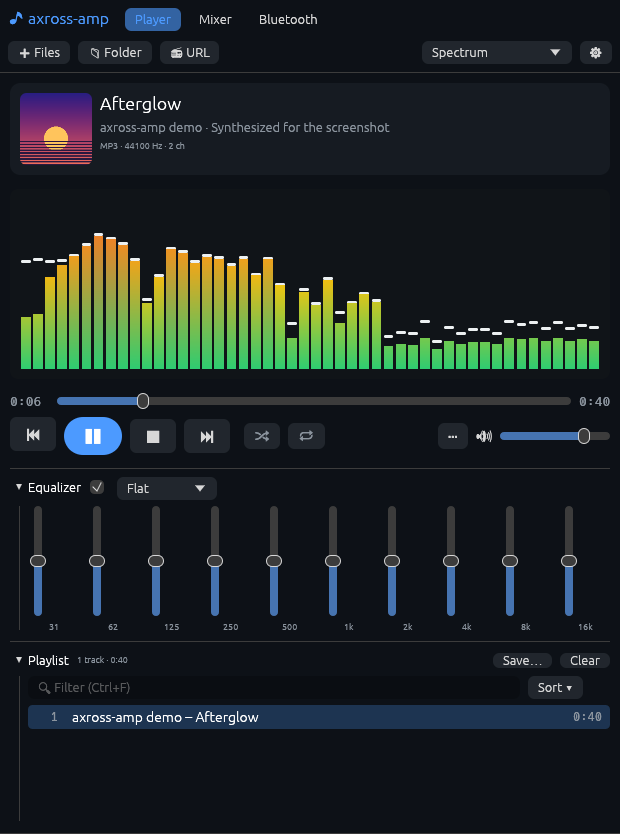
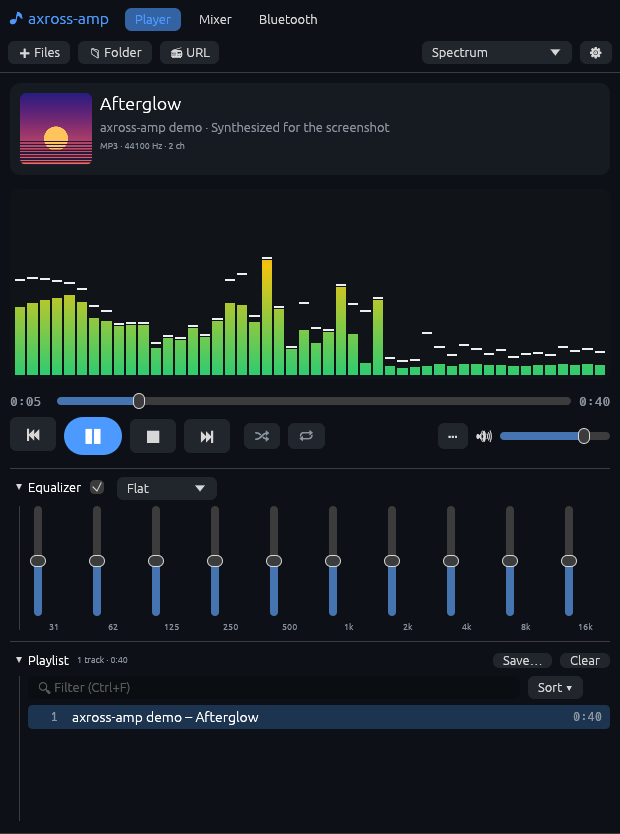
0.6.0: 48 faces in the README, from real playback; side by side with axross
The README describes the three groups, the analysis, the shaders and
their CPU fallback; its pictures are the demo track played in real time
(docs/faces-*.png, made by the ignored ui test and docs/faces_sheet.py)
and axross's faces beside axross-amp's from the same signal
(docs/axross-and-amp.png). The faces are clipped to their picture; the
title's words grow in instead of shrinking from too large; the
reaction-diffusion's seeds are round; the beat rings show the tempo.
Shift+V and Ctrl+Z in --help. An ignored test measures the shader faces
under wgpu.

Changed region(s): [[0.0, 0.2806, 0.9806, 0.4988]]

diff --git a/src/viz/generative.rs b/src/viz/generative.rs
@@ -148,7 +148,19 @@ pub fn draw(f: &Frame<'_>, key: &str, state: &mut VizState) {
         "spirograph" => cv.draw(p, |pen| spirograph(f, pen, st, dt)),
         "morph" => cv.draw(p, |pen| morph(f, pen, st, dt)),
         "mandala" => cv.draw(p, |pen| mandala(f, pen)),
-        "beatrings" => cv.draw(p, |pen| beatrings(f, pen, st, dt)),
+        "beatrings" => {
+            cv.draw(p, |pen| beatrings(f, pen, st, dt));
+            // the tempo the rings keep
+            if f.a.beat.bpm > 0.0 && f.a.beat.confidence > 0.25 {
+                p.text(
+                    f.rect.left_bottom() + vec2(4.0, -4.0),
+                    egui::Align2::LEFT_BOTTOM,
+                    format!("{:.0} BPM", f.a.beat.bpm),
+                    FontId::monospace(12.0),
+                    f.s.text(),
+                );
+            }
+        }
         _ => cv.draw(p, |pen| typography(f, pen, st, dt)),
     }
 }
@@ -307,6 +319,11 @@ fn reaction(a: &Analyzer, st: &mut State, dt: f32, picture: &std::sync::Mutex<gp
 fn seed(st: &mut State, x: usize, y: usize, r: usize) {
     for dy in 0..=2 * r {
         for dx in 0..=2 * r {
+            // (a round seed: a square one stays a square for a while)
+            let (ox, oy) = (dx as i32 - r as i32, dy as i32 - r as i32);
+            if ox * ox + oy * oy > (r * r) as i32 {
+                continue;
+            }
             let (xx, yy) = ((x + dx + RD_W - r) % RD_W, (y + dy + RD_H - r) % RD_H);
             st.rd_v[yy * RD_W + xx] = 0.9;
             st.rd_u[yy * RD_W + xx] = 0.3;
@@ -1195,9 +1212,8 @@ fn typography(f: &Frame<'_>, pen: &mut Pen<'_>, st: &mut State, dt: f32) {
     // the word: it comes in large, settles, swells with the beat; its
     // letters shake with the treble
     let arrive = (st.word_age / 0.22).min(1.0);
-    let scale = fit
-        * (1.0 + 0.6 * (1.0 - arrive) * (1.0 - arrive))
-        * (1.0 + 0.12 * a.beat.pulse + 0.06 * a.bass);
+    let scale =
+        fit * (0.7 + 0.3 * arrive * (2.0 - arrive)) * (1.0 + 0.12 * a.beat.pulse + 0.06 * a.bass);
     let tilt = (t * 0.7).sin() * 0.04 + (1.0 - arrive) * 0.15;
     let colour = mix(s.mid, s.peak, a.beat.pulse * 0.8);
     put_text(

diff --git a/tests/ui.rs b/tests/ui.rs
@@ -188,4 +188,48 @@ fn the_readme_picture() {
     // (without the status line: the test's own output has no device name)
     let image = image::imageops::crop_imm(&image, 0, 0, 620, 834).to_image();
     image.save(shots().join("hero.png")).unwrap();
+    // every face from the same music, for the README's gallery
+    let gallery = shots().join("gallery");
+    std::fs::create_dir_all(&gallery).unwrap();
+    for (k, key) in FACES
+        .iter()
+        .filter(|f| f.group != Group::Off)
+        .map(|f| f.key)
+        .enumerate()
+    {
+        // (the music goes on where it is lively: the demo is a minute long)
+        if k % 12 == 0 {
+            harness
+                .state()
+                .engine()
+                .send(axross_amp::engine::Command::Seek(14.0));
+        }
+        harness.state_mut().set_mode(key);
+        let end = std::time::Instant::now() + std::time::Duration::from_millis(1800);
+        while std::time::Instant::now() < end {
+            harness
+                .state()
+                .engine()
+                .shared
+                .render(&mut buf, 2, &mut state);
+            harness.run_steps(1);
+            std::thread::sleep(std::time::Duration::from_millis(10));
+        }
+        let image = harness.render().unwrap();
+        let r = harness
+            .get_by_role_and_label(
+                egui::accesskit::Role::Image,
+                &format!("Visualization: {}", axross_amp::viz::name(key)),
+            )
+            .rect();
+        let picture = image::imageops::crop_imm(
+            &image,
+            r.left() as u32,
+            r.top() as u32,
+            r.width() as u32,
+            r.height() as u32,
+        )
+        .to_image();
+        picture.save(gallery.join(format!("{key}.png"))).unwrap();
+    }
 }

diff --git a/tests/faces.rs b/tests/faces.rs
@@ -181,3 +181,29 @@ fn the_shader_faces_look_alike_on_the_cpu() {
     }
     println!("{}", report.join("\n"));
 }
+
+/// What the GPU's work costs, rendered by wgpu (where there is no GPU: Mesa's
+/// lavapipe on the CPU, far slower than any graphics card) - for a measure,
+/// not a limit: `cargo test --test faces -- --ignored`.
+#[test]
+#[ignore]
+fn what_the_shader_faces_cost_the_gpu() {
+    for (w, h) in [(620.0, 300.0), (1920.0, 1080.0), (3840.0, 2160.0)] {
+        let mut line = format!("{w}x{h}:");
+        for face in FACES.iter().filter(|f| f.shader) {
+            let mut harness = faces::harness(face.key, vec2(w, h), true, 3.0);
+            for _ in 0..10 {
+                faces::frame(&mut harness);
+            }
+            harness.render().unwrap();
+            let started = std::time::Instant::now();
+            for _ in 0..3 {
+                faces::frame(&mut harness);
+                harness.render().unwrap();
+            }
+            let ms = started.elapsed().as_secs_f64() * 1000.0 / 3.0;
+            line.push_str(&format!(" {} {ms:.0} ms,", face.key));
+        }
+        println!("{line}");
+    }
+}

diff --git a/src/viz/mod.rs b/src/viz/mod.rs
@@ -673,9 +673,16 @@ pub fn draw(f: &Frame<'_>, key: &str, state: &mut VizState) {
     if f.rect.width() < 8.0 || f.rect.height() < 8.0 {
         return;
     }
-    // (a little room within the rounded corners)
+    // (a little room within the rounded corners; nothing drawn outside)
     let inner = f.rect.shrink(4.0);
-    let frame = Frame { rect: inner, ..*f };
+    let clipped = f
+        .painter
+        .with_clip_rect(f.rect.intersect(f.painter.clip_rect()));
+    let frame = Frame {
+        rect: inner,
+        painter: &clipped,
+        ..*f
+    };
     let face = find(key).unwrap_or(&FACES[0]);
     match face.group {
         Group::Classic => classic::draw(&frame, face.key, state),

diff --git a/src/main.rs b/src/main.rs
@@ -21,8 +21,9 @@ A player already running (Linux) takes the files of a second start;
 
 Keys: Space play / pause, Left / Right seek 5 s (Shift: 30 s), Ctrl+Left /
 Right previous / next, Up / Down or + / - volume, Home the track's start,
-M mute, N next, P previous, V next visualization; in the playlist Ctrl+Up /
-Down choose a track, Alt+Up / Down move it, Enter play it, Delete remove it.
+M mute, N next, P previous, V / Shift+V the next / previous visualization;
+in the playlist Ctrl+Up / Down choose a track, Alt+Up / Down move it, Enter
+play it, Delete remove it, Ctrl+Z undo.
 The mouse wheel seeks over the position and sets the volume over its slider.";
 
 fn main() -> eframe::Result {

diff --git a/README.md b/README.md
@@ -35,14 +35,36 @@ picture is made by `AMP_DEMO_TRACK=… cargo test --test ui -- --ignored`.</sub>
   (`ICY 200 OK`) play. The network is read on threads of its own: a server that
   stalls holds up nothing (a read gives up after 20 s; a stream let go closes its
   connection at once). HLS (`.m3u8` with segments) is not supported and says so.
-- **Visualizations** drawn on the GPU (egui) - all eighteen of axross's: spectrum,
-  mirrored, radial and polar spectrum, line spectrum, LED equalizer, particle
-  columns, waterfall, ridgelines, spectrum terrain, 3D ring, bell curves, wave
-  ribbon, kaleidoscope, oscilloscope, stereo scope, VU meters, starfield - in
-  axross's colour schemes (Classic, Fire, Ice, Neon, Mono, Follow the theme,
-  Custom - edited here), with its options (bars, smoothing, peak fall, frame
-  rate). A click shows the next face, a double-click makes it large, F11 full
-  screen, a right click its menu; "Off" draws nothing (and costs nothing).
+- **Visualizations**, 48 of them in three groups, drawn on the GPU:
+  - *Classic* - all eighteen of axross's, drawn as axross draws them (its geometry,
+    colours and constants; [side by side](docs/axross-and-amp.png)): spectrum,
+    mirrored, radial and polar spectrum, line spectrum, LED equalizer, particle
+    columns, waterfall, ridgelines with their sun, spectrum terrain, 3D ring, bell
+    curves, wave ribbon, kaleidoscope, oscilloscope, stereo scope, VU meter, starfield.
+  - *Analysis* - a spectrum analyzer (8192-point FFT, a held peak curve, the
+    strongest peak with its note and cents, the note and level under the pointer),
+    a loudness meter after EBU R128 (momentary, short-term, integrated with both
+    gates, loudness range, true peak, the last minute), phase and stereo width
+    (correlation, width, balance, the last ten seconds), a goniometer (with its
+    persistence and an automatic gain), the track's waveform (read in the background;
+    a click goes there), a chromagram with the circle of fifths and the key, a piano
+    roll and a mel spectrogram.
+  - *Generative* - plasma, fire, metaballs, aurora, flow field, synthwave, tunnel,
+    galaxy, Julia set, reaction-diffusion, arcs, ripples, skyline, isometric bars,
+    DNA helix, spirograph, polygon morph, mandala, moiré, beat rings, smoke and the
+    title's words on the beat. They move with the bass, the treble, the beat and
+    the tempo.
+
+  The pixel faces are WGSL shaders run through egui's wgpu renderer; without wgpu
+  the same functions are drawn on the CPU, coarser. The sound is analysed once a
+  frame for all faces (bars, levels, stereo picture, loudness, beat, and for the
+  faces that ask a fine spectrum with notes, chroma and mel bands), and neither the
+  analysis nor most faces allocate in a frame; the pictures move alike at any frame
+  rate. In axross's colour schemes (Classic, Fire, Ice, Neon, Mono, Follow the theme,
+  Custom - edited here), with its options (bars, smoothing, peak fall, frame rate).
+  A click shows the next face (Shift+V the one before), a double-click makes it
+  large, F11 full screen, a right click its menu with every face at a glance; "Off"
+  draws nothing (and costs nothing).
 - **Playlist**: shuffle (Previous goes back the way it came), repeat (all / one), a
   filter (Ctrl+F), sorting (title, artist, album with its discs and track numbers,
   file name, folder, length, reversed; names in natural order), several rows at once
@@ -80,7 +102,14 @@ picture is made by `AMP_DEMO_TRACK=… cargo test --test ui -- --ignored`.</sub>
   Files are written on a thread of their own, merged with what axross's player wrote
   meanwhile (its playlist is not undone by a change of volume here).
 
-![The visualizations](docs/visualizations.png)
+![The classic faces](docs/faces-classic.png)
+
+![The analysis faces](docs/faces-analysis.png)
+
+![The generative faces](docs/faces-generative.png)
+
+<sub>From the demo track, played in real time by `cargo test --test ui -- --ignored`
+(see above); the sheets are made by `docs/faces_sheet.py`.</sub>
 
 <p><img src="docs/mixer.png" alt="The Mixer tab" width="45%"> <img src="docs/bluetooth.png" alt="The Bluetooth tab" width="45%"></p>
 
@@ -102,7 +131,7 @@ Keys (on the Player tab, not while typing in a field):
 | ↑ / ↓, + / − | volume |
 | Home | the track's start |
 | M, N, P | mute, next, previous |
-| V, F11 | the next visualization; full screen (Escape leaves) |
+| V, Shift+V, F11 | the next / the previous visualization; full screen (Escape leaves) |
 | Ctrl+F | the playlist's filter |
 | Ctrl+↑ / ↓, Alt+↑ / ↓ | choose a track in the playlist; move it |
 | Enter, Delete | play the chosen track; remove it |
@@ -156,8 +185,10 @@ the Mixer tab needs `pactl` (Linux, or a PulseAudio elsewhere).
 Known limits: cpal's PulseAudio back end (cpal 0.18.2, the newest) takes a mutex
 after the output callback has returned, to hand the samples over - outside this
 player's callback, which itself takes no lock, and out of its hands until cpal
-changes it. HLS radio (`.m3u8` segment lists)
-is not played.
+changes it. HLS radio (`.m3u8` segment lists) is not played. Without wgpu (another
+renderer) the shader faces are drawn on the CPU on a coarse grid - softer, and
+dearer. The beat is found from the onsets; on syncopated music the tempo may read
+half or double.
 
 Tests: `cargo test` runs everywhere. The window is driven headless (egui_kittest,
 wgpu - Mesa's lavapipe works without a GPU); the engine's sound is taken by the
@@ -168,6 +199,15 @@ The mixer and Bluetooth tests run against axross's fakes when they are given -
 `AMP_FAKE_PACTL=axross/tests/fake_pactl.py`, `AMP_FAKE_BLUEZ=axross/tests/fake_bluez.py`
 (on a private `dbus-daemon`) and `AMP_PYTHON` (a Python with jeepney); MPRIS runs on
 a private `dbus-daemon` of its own. Without them those tests pass, saying so.
+
+The faces are tested from a known signal: every one rendered and measured (how
+much it draws, in how many colours, how much it moves), the shaders on the CPU
+against the GPU, the cost of a frame at 620 x 300, 1920 x 1080 and 3840 x 2160, the
+allocations of a frame counted; the analysis against known signals (a 1 kHz sine at
+-18 dBFS reads -18 LUFS, mono correlates +1 and inverted -1, a C major chord lights
+C, E and G, clicks at 128 BPM are 128 BPM, an intersample peak is found).
+`docs/axross_faces.py` renders axross's own faces (offscreen Qt) from the same signal
+for the comparison sheet. `tests/states.rs` renders the window in each of its states.
 
 ## Licence
 
